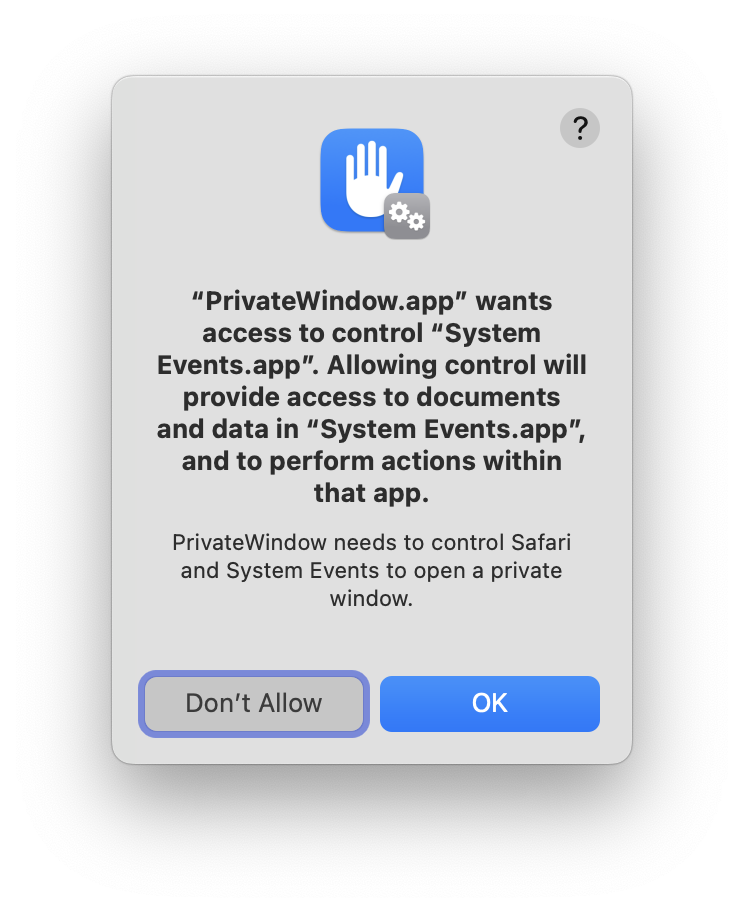
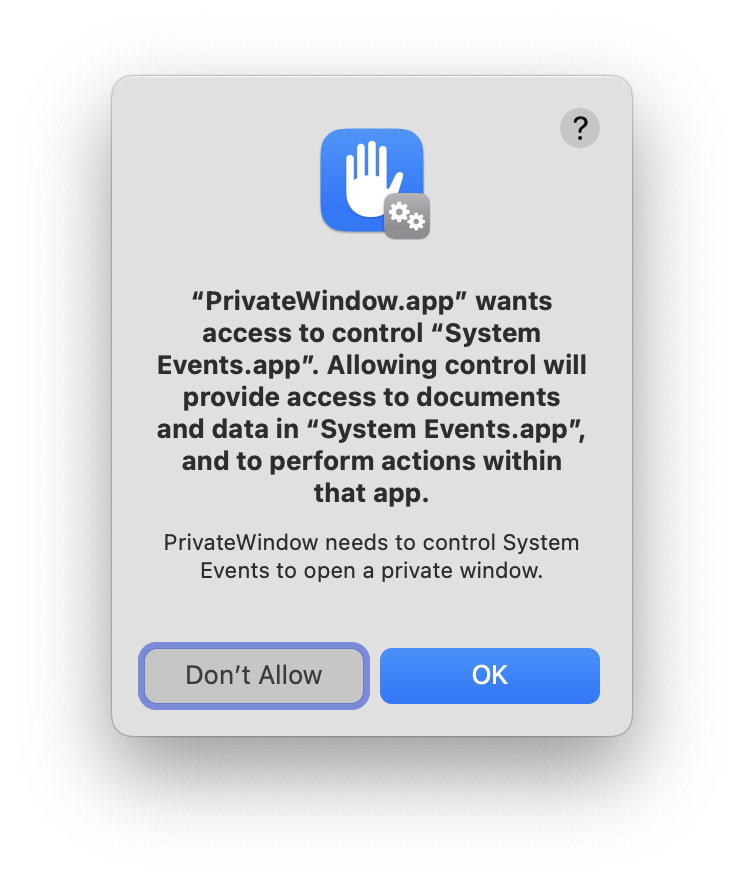
Fixed a bug where opening a URL didn't work in the background.

diff --git a/source/JJApplicationDelegate.m b/source/JJApplicationDelegate.m
@@ -93,19 +93,28 @@ NSString*const SafariTechnologyPreviewBundleID = @"com.apple.SafariTechnologyPre
 			});
 		} else {
 			NSString* formatString =
-@"set windowCount to 0\n\
-tell application \"%@\" to set windowCount to windows count\n\
-tell application \"System Events\" to tell its application process \"%@\"\n\
-keystroke \"n\" using {%@command down}\n\
-end tell\n\
-tell application \"%@\"\n\
-repeat while (windows count) <= windowCount\n\
-delay 0.1\n\
-end repeat\n\
-end tell";
-			NSString* keystroke = [@PRODUCT_NAME isEqualToString:@"PrivateWindow"] ? @"shift down, " : @"";
+			@"tell application \"System Events\"\n\
+			tell application process \"%@\"\n\
+			repeat while (count menu bars) = 0\n\
+			delay 0.1\n\
+			end repeat\n\
+			end tell\n\
+			local restoreold\n\
+			set oldapp to first process whose frontmost is true\n\
+			tell application process \"%@\"\n\
+			set restoreold to not frontmost\n\
+			if (restoreold) then\n\
+			set frontmost to true\n\
+			end if\n\
+			click menu item %@ of menu 1 of menu bar item 3 of menu bar 1\n\
+			end tell\n\
+			if (restoreold) then\n\
+			set frontmost of oldapp to true\n\
+			end if\n\
+			end tell";
+			NSString* menuItem = [@PRODUCT_NAME isEqualToString:@"PrivateWindow"] ? @"2" : @"1";
 			NSString* safari = useSafariTechnologyPreview ? @"Safari Technology Preview" : @"Safari";
-			NSString* source = [NSString stringWithFormat:formatString, safari, safari, keystroke, safari];
+			NSString* source = [NSString stringWithFormat:formatString, safari, safari, menuItem];
 			NSAppleScript* script = [[NSAppleScript alloc] initWithSource:source];
 			NSDictionary* errorInfo = nil;
 			NSAppleEventDescriptor* descriptor = [script executeAndReturnError:&errorInfo];

diff --git a/README.md b/README.md
@@ -22,12 +22,10 @@ PrivateWindow was originally based on [Safari Private](https://github.com/sindre
 6. Enable PrivateWindow.
 ![System Settings > Privacy & Security > Accessibility > PrivateWindow](screenshots/2.png)
 7. Repeat the above steps for `PublicWindow.app`.
-8. The first time you open a URL with the app, allow it to control Safari and System Events.
-!["PrivateWindow.app" wants access to control "Safari.app". Allowing control will provide access to documents and data in "Safari.app", and to perform actions within that app.](screenshots/3.png)
-
+8. The first time you open a URL with the app, allow it to control System Events.
 !["PrivateWindow.app" wants access to control "System Events.app". Allowing control will provide access to documents and data in "System Events.app", and to perform actions within that app.](screenshots/4.png)
 
-![System Settings > Privacy & Security > Automation > PrivateWindow > Safari and System Events](screenshots/5.png)
+![System Settings > Privacy & Security > Automation > PrivateWindow > System Events](screenshots/5.png)
 
 
 ## Uninstalling
